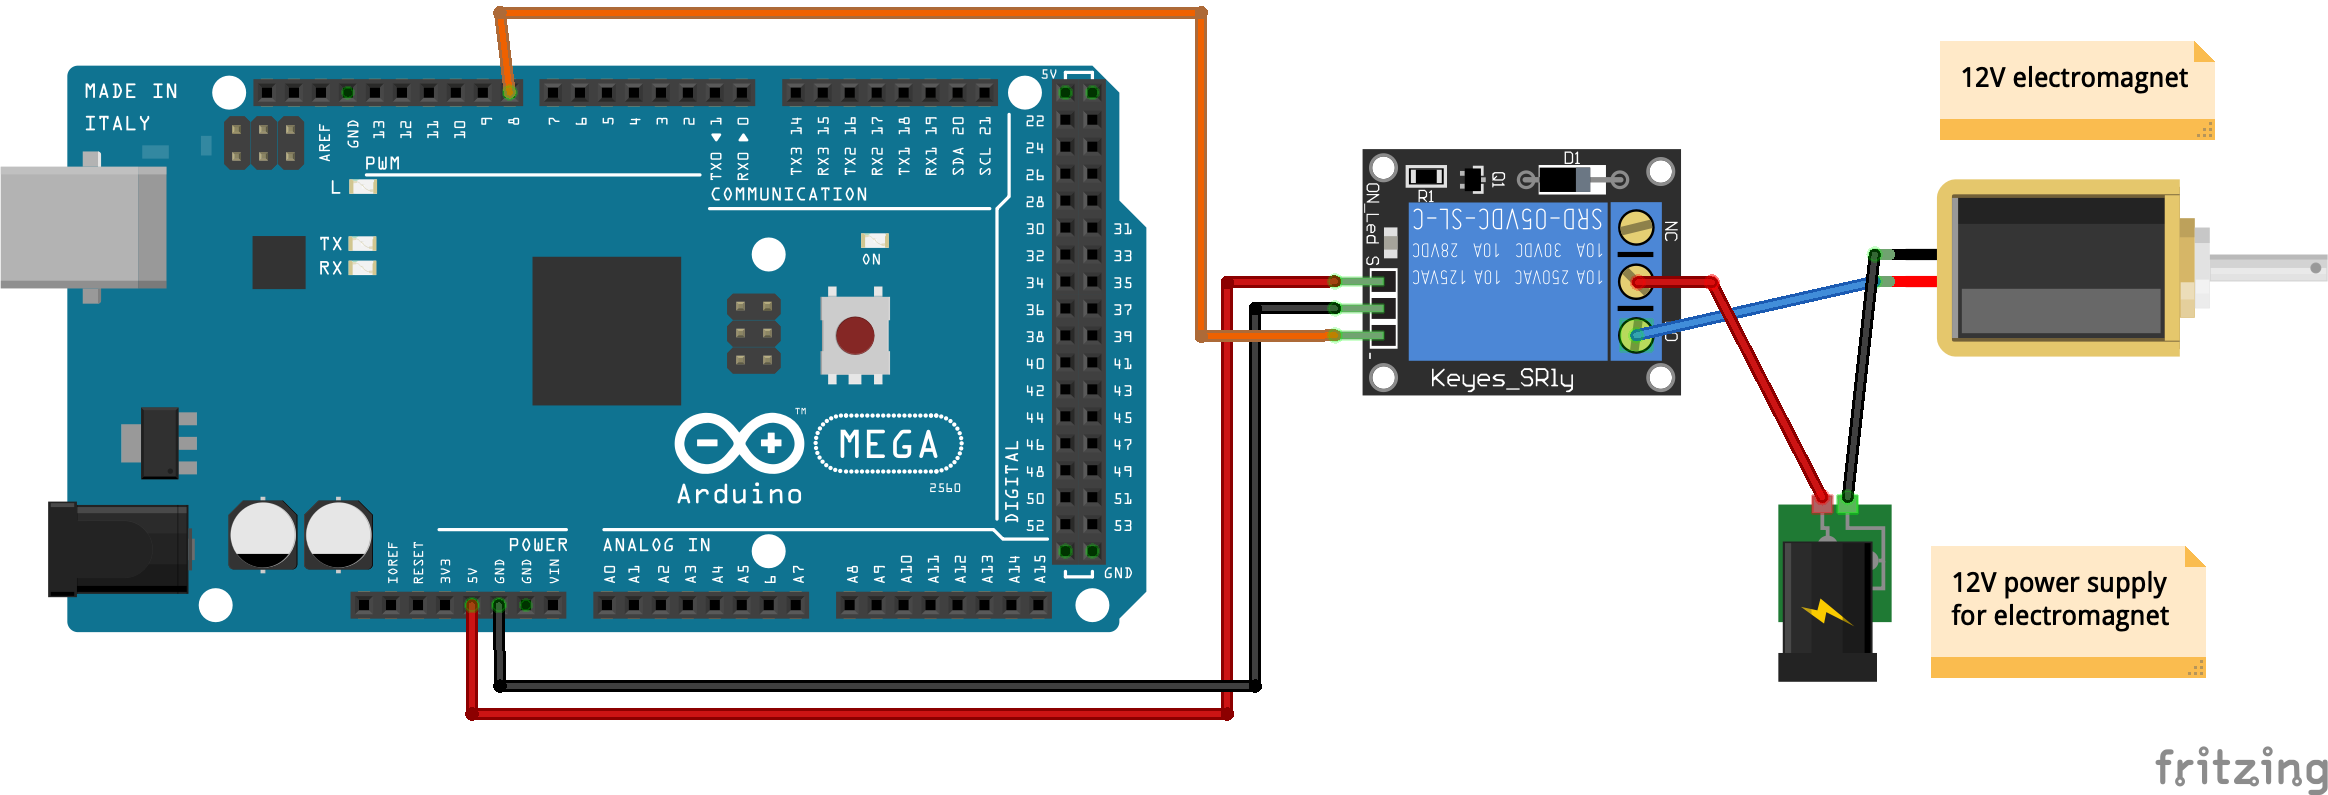
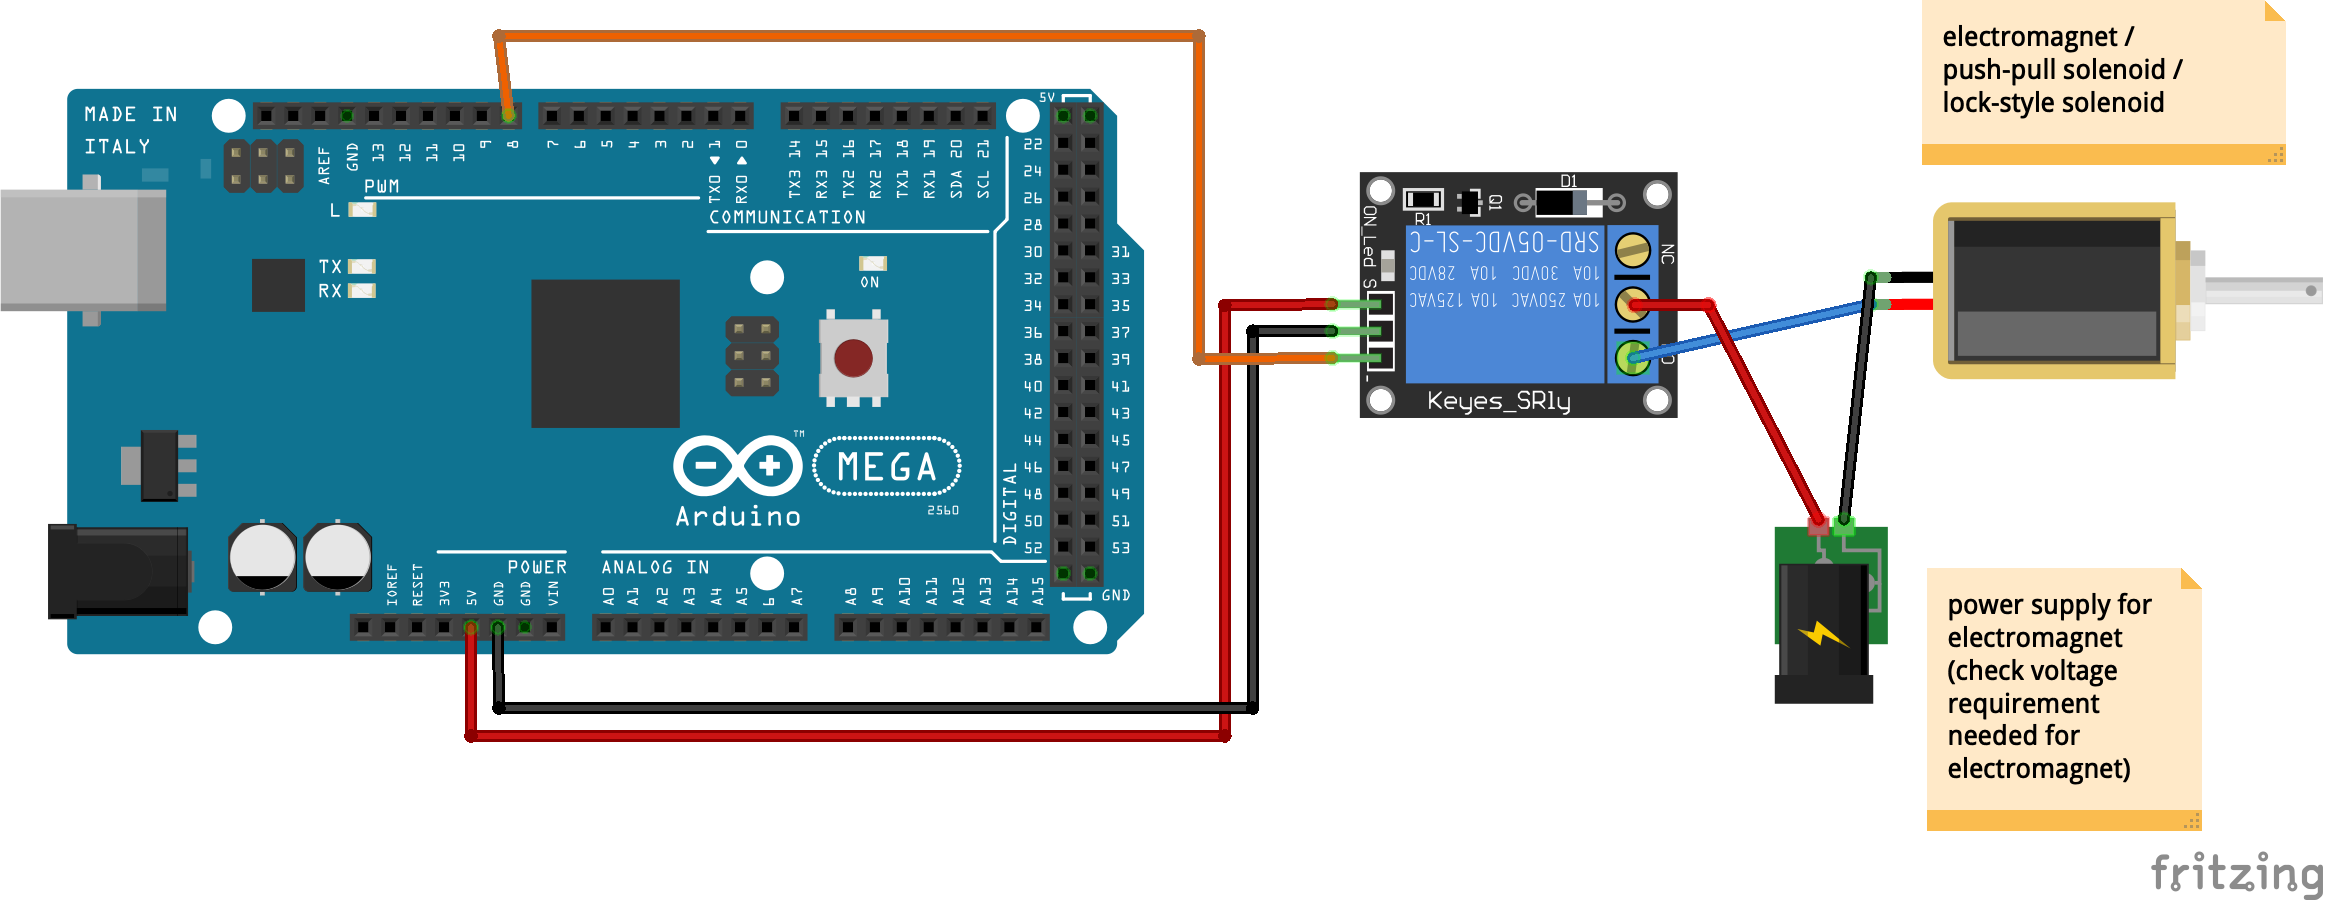
Update electromagnet code and wiring with solenoid usage

Changed region(s): [[0.0, 0.0, 1.0, 1.0], [0.8041, 0.0, 0.9897, 0.1811], [0.0, 0.2717, 0.1856, 0.3925]]

diff --git a/README.md b/README.md
@@ -8,6 +8,6 @@ Wiring diagram - DC motor and the L298N Dual H-Bridge
 
 <img src="arduino_L298N_2motors_bb.png" width="800">
 
-Wiring diagram - Electromagnet:
+Wiring diagram - Electromagnet (same for Push-Pull Solenoid Electromagnet / or Lock-type Solenoid):
 
 <img src="arduino_electromagnet_bb.png" width="800">
